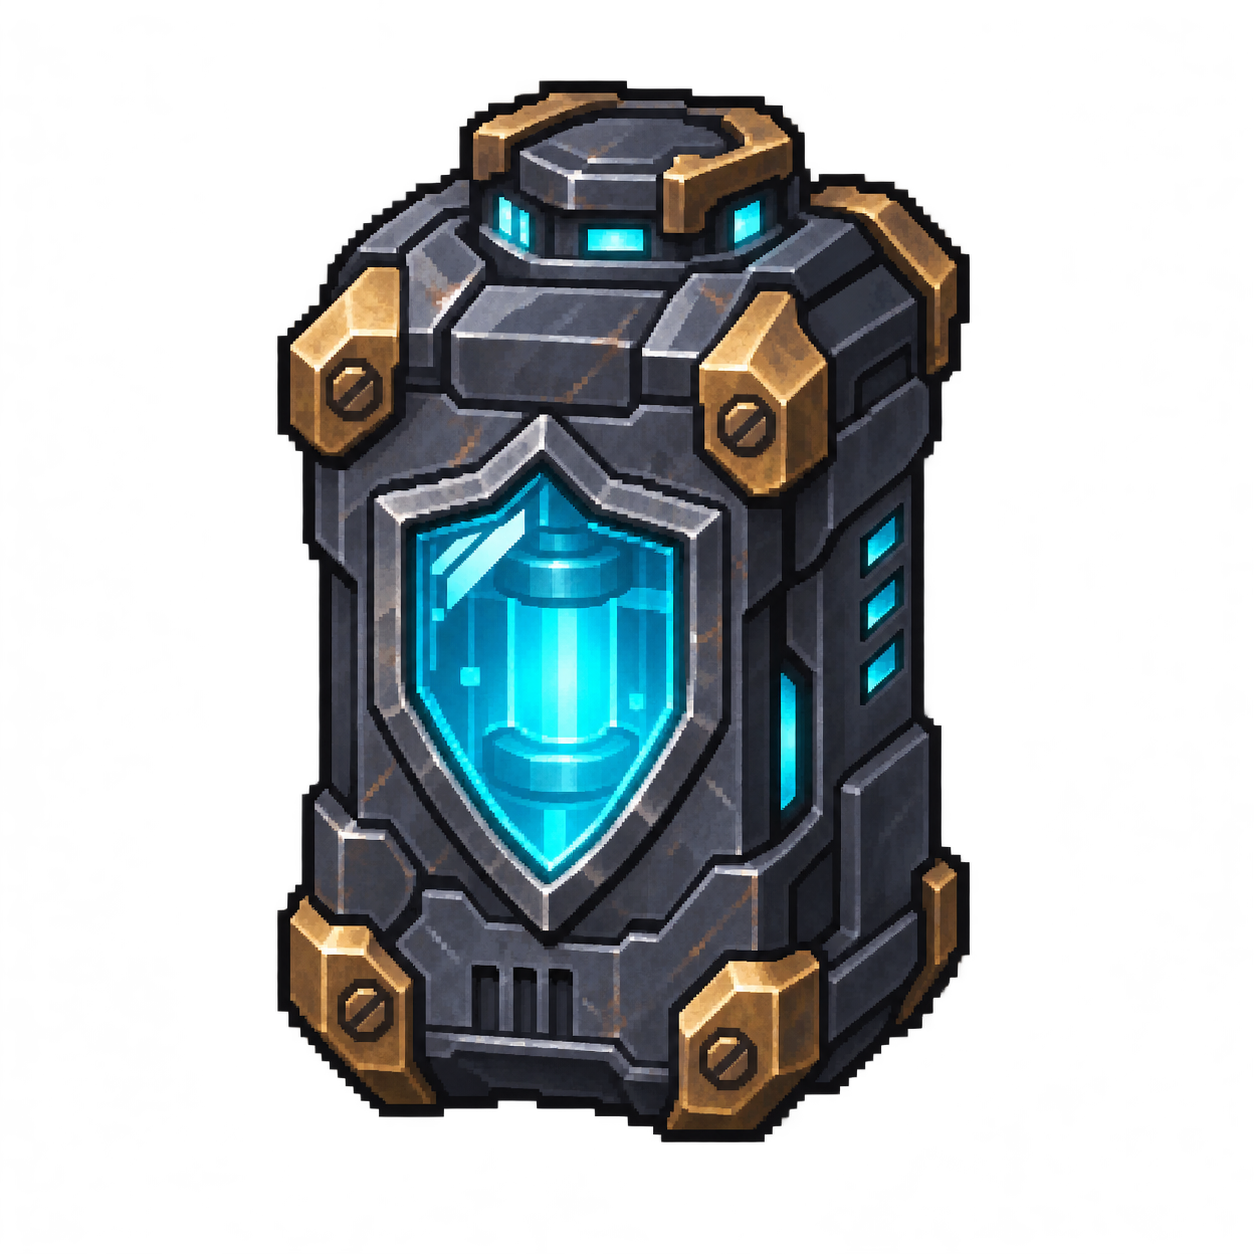
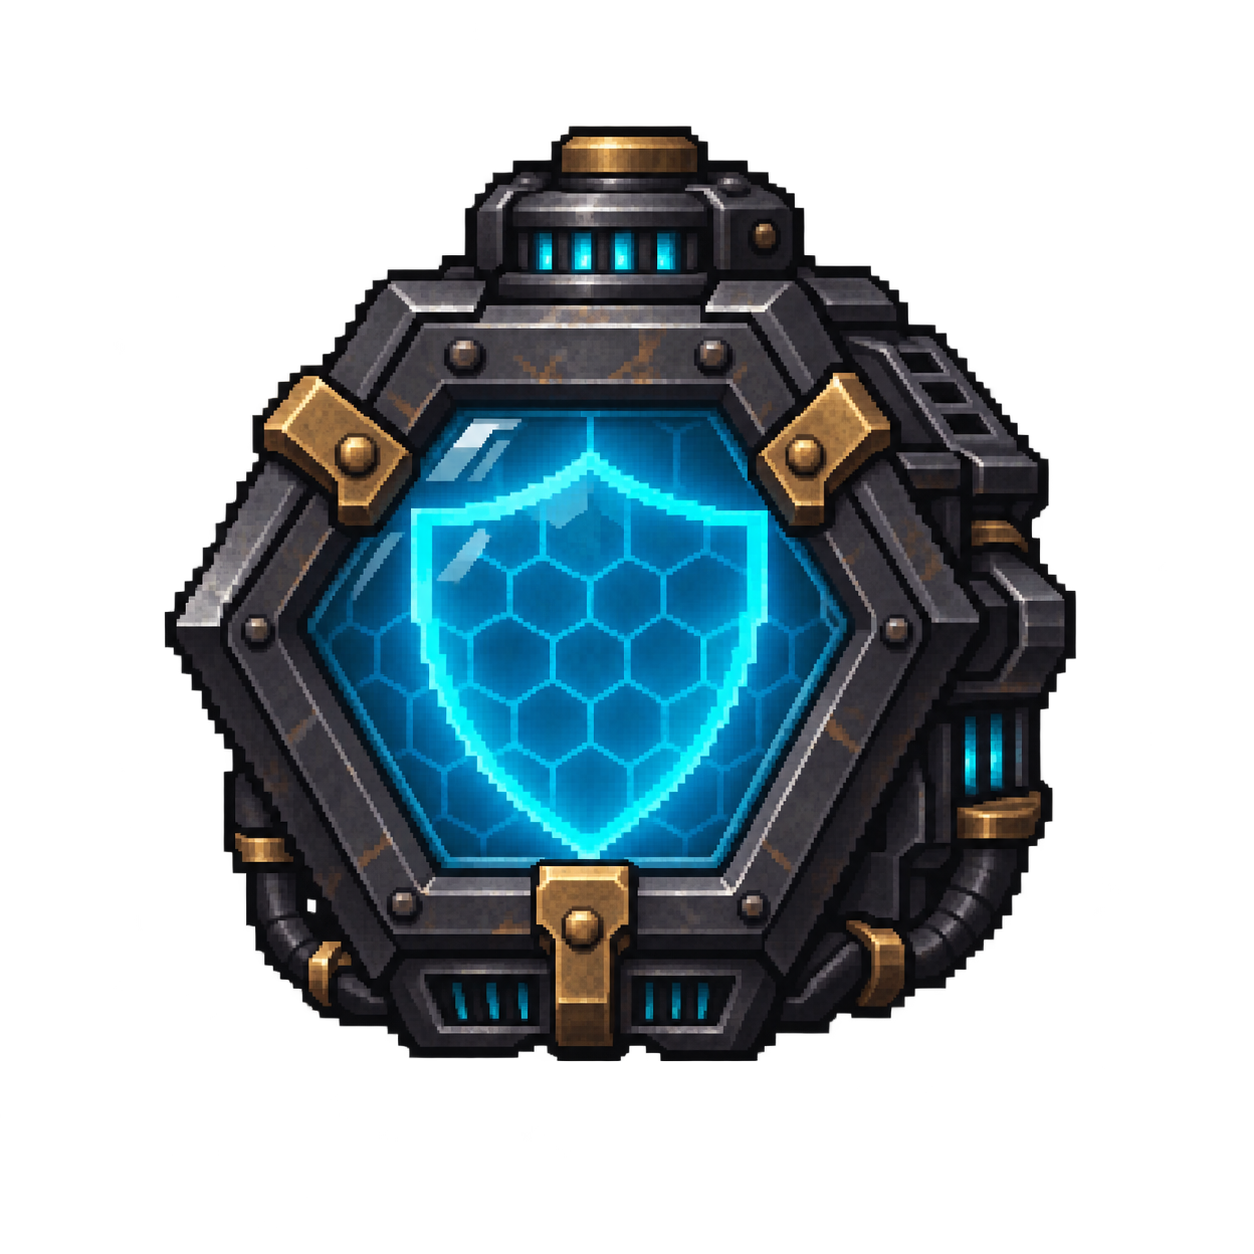
보급시설과 속도 및 보호막 아이템 디자인 개선

diff --git a/fragment_cache.py b/fragment_cache.py
@@ -29,24 +29,49 @@ class FragmentCache:
 
     def draw(self, camera_x=0):
         import pico2d
-        from effects import segment, blended, glow
+        from effects import segment, blended, glow, polygon
         x, y = self.x - camera_x, self.feet_y
-        metal = (167, 148, 102)
-        pico2d.draw_rectangle(x - 27, y, x + 27, y + 73, 30, 39, 47, filled=True)
-        pico2d.draw_rectangle(x - 27, y, x + 27, y + 73, 78, 91, 98)
-        pico2d.draw_rectangle(x - 21, y + 6, x + 21, y + 64, 15, 25, 32, filled=True)
-        progress = self.opening_elapsed / .3
-        # 앞문이 접히며 내부 수납칸을 드러낸다. 개봉·지급 기록은 E 입력 순간 확정한다.
-        edge = x + 21 - 38 * progress
-        pico2d.draw_rectangle(x - 21, y + 6, edge, y + 64, 48, 61, 65, filled=True)
-        pico2d.draw_rectangle(x - 21, y + 6, edge, y + 64, *metal)
-        for yy in (20, 43):
-            pico2d.draw_line(x - 16, y + yy, x + 16, y + yy, 83, 96, 97)
-        if not self.opened:
-            points = ((x + 3, y + 54), (x - 7, y + 36), (x + 3, y + 36), (x - 3, y + 20))
-            for a, b in zip(points, points[1:]):
-                segment(a, b, (239, 204, 125), width=3)
+        progress = min(1, self.opening_elapsed / .3)
+        brass, steel = (163,133,77), (75,89,99)
+        # 벽면 고정 프레임·배선·보강 모서리. 실제 충돌체와 지급 시점은 유지한다.
+        segment((x+30,y+67),(x+37,y+67),(37,48,57),width=4)
+        segment((x+37,y+67),(x+37,y+11),(37,48,57),width=4)
+        polygon(((x-31,y+4),(x-31,y+72),(x-23,y+80),(x+23,y+80),
+                 (x+31,y+72),(x+31,y+4)),(24,33,42))
+        pico2d.draw_rectangle(x-26,y+6,x+26,y+74,*steel,filled=True)
+        pico2d.draw_rectangle(x-22,y+10,x+22,y+68,11,19,26,filled=True)
+        for xx in (-29,23):
+            for yy in (8,65):
+                pico2d.draw_rectangle(x+xx,y+yy,x+xx+6,y+yy+10,*brass,filled=True)
+                pico2d.draw_rectangle(x+xx+2,y+yy+3,x+xx+4,y+yy+5,40,45,44,filled=True)
+        for xx in (-13,0,13):
+            pico2d.draw_rectangle(x+xx-4,y+20,x+xx+4,y+54,35,47,55,filled=True)
+            pico2d.draw_line(x+xx-3,y+51,x+xx+3,y+51,91,105,110)
+        # 두 장의 잠금문이 양옆으로 물러나며 회수 후 빈 슬롯을 드러낸다.
+        width = 21*(1-progress)
+        for side in (-1,1):
+            left,right = ((x-22,x-22+width) if side<0 else (x+22-width,x+22))
+            if width > .1:
+                pico2d.draw_rectangle(left,y+11,right,y+67,48,61,70,filled=True)
+                pico2d.draw_line(left,y+67,right,y+67,123,135,136)
+                pico2d.draw_line(left,y+13,right,y+13,27,36,42)
+                if width > 4:
+                    for yy in (18,21,57,60):
+                        pico2d.draw_line(left+2,y+yy,right-2,y+yy,72,85,93)
+        if progress < 1:
             with blended():
-                glow(x, y + 39, 24, (226, 190, 105), alpha=45)
-        color = (219, 188, 115) if not self.opened else (67, 77, 79)
-        pico2d.draw_rectangle(x - 16, y + 68, x - 7, y + 70, *color, filled=True)
+                alpha = round(255*(1-progress))
+                emblem = ((x,y+56),(x+13,y+49),(x+13,y+32),
+                          (x,y+24),(x-13,y+32),(x-13,y+49))
+                polygon(emblem,(25,33,38),alpha=alpha)
+                for a,b in zip(emblem,emblem[1:]+emblem[:1]):
+                    pico2d.draw_line(*a,*b,*brass,a=alpha)
+                points=((x+4,y+51),(x-5,y+39),(x+3,y+39),(x-3,y+29))
+                for a,b in zip(points,points[1:]):
+                    pico2d.draw_line(*a,*b,255,215,131,a=alpha)
+                glow(x,y+40,25,(240,192,92),alpha=45*(1-progress))
+        pico2d.draw_rectangle(x-13,y+73,x+13,y+77,17,25,31,filled=True)
+        for dx in (-8,0,8):
+            color=(238,194,106) if not self.opened else (60,75,78)
+            pico2d.draw_rectangle(x+dx-2,y+74,x+dx+2,y+76,*color,filled=True)
+        pico2d.draw_rectangle(x-29,y,x+29,y+5,43,53,60,filled=True)

diff --git a/supplies.py b/supplies.py
@@ -1,7 +1,7 @@
 """한 번만 개봉하고 미수령 소모품을 남기는 보급함."""
 
 from dataclasses import dataclass
-from inventory import MEDKIT, LIGHT_BOMB, SHIELD
+from inventory import MEDKIT, SPEED, LIGHT_BOMB, SHIELD
 from item_art import draw_item
 
 
@@ -50,6 +50,12 @@ class SupplyBox:
         x, y = self.x - camera_x, self.feet_y
         pico2d.draw_rectangle(x - 23, y, x + 23, y + 22, 42, 57, 60, filled=True)
         pico2d.draw_rectangle(x - 23, y, x + 23, y + 22, 134, 145, 132)
+        pico2d.draw_line(x-21,y+1,x+21,y+1,21,31,36)
+        pico2d.draw_line(x-20,y+19,x+20,y+19,78,97,102)
+        for xx in (-22,18):
+            for yy in (1,16):
+                pico2d.draw_rectangle(x+xx,y+yy,x+xx+4,y+yy+5,129,112,76,filled=True)
+                pico2d.draw_line(x+xx+1,y+yy+2,x+xx+3,y+yy+2,39,46,46)
         pico2d.draw_line(x - 15, y + 21, x + 15, y + 21, *SUPPLY_COLORS[self.item])
         for side in (-19, 15):
             pico2d.draw_rectangle(x + side, y + 2, x + side + 4, y + 20, 105, 113, 103, filled=True)
@@ -61,13 +67,16 @@ class SupplyBox:
             pico2d.draw_circle(x, y + 11, 4, 178, 128, 53, filled=True)
             pico2d.draw_circle(x, y + 11, 2, 255, 234, 173, filled=True)
         else:
-            draw_item(self.item, x, y + 11, 16)
+            draw_item(self.item, x, y + 11, 18)
         progress = min(1, self.opening_elapsed / OPEN_TIME)
         angle = progress * pi * .48
         hinge = (x - 23, y + 22)
         end = (hinge[0] + cos(angle) * 46, hinge[1] + sin(angle) * 46)
         polygon((hinge, end, (end[0], end[1] + 4), (hinge[0], hinge[1] + 4)), (90, 106, 100))
         segment(hinge, end, (180, 178, 145), width=2)
+        for ratio in (.18,.82):
+            px,py=hinge[0]+(end[0]-hinge[0])*ratio,hinge[1]+(end[1]-hinge[1])*ratio
+            segment((px,py),(px,py+4),(47,61,67),width=3)
         if not self.opened:
             with blended():
                 glow(x, y + 16, 21, (173, 198, 135), alpha=48)
@@ -76,7 +85,7 @@ class SupplyBox:
             with blended():
                 color = (132, 219, 244) if self.item == SHIELD else (175, 222, 162)
                 glow(px - camera_x, py, 19, color, alpha=75)
-            draw_item(self.item, px - camera_x, py, 22)
+            draw_item(self.item, px - camera_x, py, 27 if self.item in (SPEED,SHIELD) else 22)
 
 
 def draw_medkit_icon(x, y, size=18):

diff --git a/docs/DEVELOPMENT.md b/docs/DEVELOPMENT.md
@@ -2,6 +2,14 @@
 
 갱신: 2026-11-16
 
+## 정비실 후퇴·보급 디자인 수정
+
+- 기획서·PRD는 변경하지 않았다. 이번 수정은 기존 조명 후퇴 규칙의 이동 보정과 보급시설·아이템의 시각 개선이다.
+- 정비실 왼쪽 적이 동일 층·기존 전투 경계만 검사해 갇히던 상황을 수정했다. 기존 층에서 어둠을 찾지 못한 정비실 개체만 지정 연결 구간을 사용한다. 64px 이내의 안전한 낮은 발판으로 내려가고 작은 턱은 밟거나 48px 턱을 뛰어오른다. 벽·낮은 천장·깊은 낭떠러기는 통과하지 않는다. 소등 후 원래 교전 지점으로 복귀하며 사망·재출현은 원래 이동 범위를 복원한다. 적 수·체력·피해·조명 비용/수명/반경은 유지했다.
+- 속도는 녹색 쌍실린더 부스터, 보호막은 청색 육각형 방어 장치의 투명 PNG로 교체했다. 내장 image_gen으로 생성했으며 원본 PNG·생성문·표시 좌표를 assets/images/items에 저장했다. 맵·HUD·보급함·효과 시간 표시가 같은 아이콘을 사용한다. 획득 위치·수량·속도 5초·보호막 6초는 유지했다.
+- 선택 보급고는 황동 보강·전력 문양·양쪽 잠금문·회수 후 빈 슬롯/꺼진 표시등으로 개선했다. 일반 보급함에도 모서리 보강·뚜껑 잠금 부품을 추가했다. E 개봉·0.3초·1회 지급·사망 보존은 유지했다.
+- 전체 검사 434개 통과. 실제 SDL 입력·1440×810 출력으로 보급고 개봉 전/중/후, 속도·보호막 바닥 아이템/HUD/효과와 정비실 R 설치→하부 연결 발판→어둠 순찰→12초 만료→정비실 복귀를 확인했다. 통제한 후퇴에서 최저 발 높이 256px, 어둠 순찰 이동 폭 약 240px이며 일반 플레이 난이도 측정은 아니다. 기록은 상위 작업 폴더 tmp/supply_retreat와 tmp/verify_supply_retreat.py에 있다.
+
 ## 광탄 충전·조준 개선
 
 - 개발 전에 PRD와 기존 기획서 PPT의 조작·입력·광탄·인벤토리·상태 표시·3주차 계획을 먼저 수정해 커밋했다. PPT는 62장 양식과 나머지 내용을 유지하고 PowerPoint 일반 재열기·패키지·편집 가능한 표·글꼴 검사를 통과했다. 2차 발표 자료는 수정하지 않았다.
